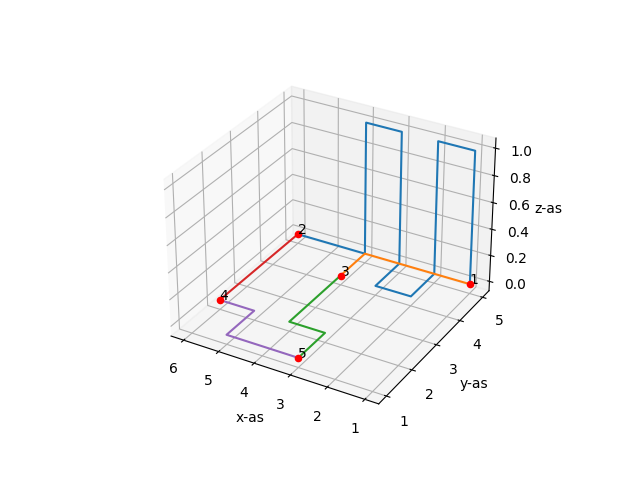
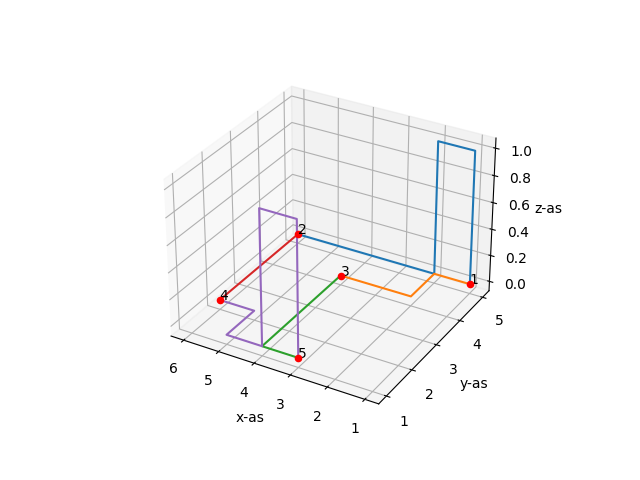
Included the possibility to retrieve crossing at specified direction without going there with the net

diff --git a/code/classes/grid.py b/code/classes/grid.py
@@ -166,62 +166,20 @@ class Grid():
         """
         Takes a letter to represent the direction as variable
         Adds the new location to the net, add blockades to involved crossings
-        Returns false if invalid direction is passed, else true
+        Returns false if invalid direction is passed or crossing is a gate not in the current_net, else true
         """
 
-        if self.current_crossing.add_blockade(direction):
+        # first check if this direction is still an option from the current crossing
+        if direction in self.current_crossing.directions:
+            new_crossing = self.crossing_at_direction(direction)
 
-            # retrieve new crossing object at right location
-            current_coordinates = self.current_crossing.location
+            # block the directions from both crossings
+            self.current_crossing.add_blockade(direction)
+            already_intersection = new_crossing.intersection
+            opposite = self.get_opposite(direction)
+            new_crossing.add_blockade(opposite[0])
 
-            # if direction if north, y coordinate goes down by one (may seem weird, has to do with indexing)
-            if direction == 'N':
-                new_y_coordinate = current_coordinates[1] - 1
-
-                new_crossing = self.grid[current_coordinates[2]][new_y_coordinate][current_coordinates[0]]
-                already_intersection = new_crossing.intersection
-                new_crossing.add_blockade('S')
-
-            # if direction if north, y coordinate goes up by one (may seem weird, has to do with indexing)
-            elif direction == 'S':
-                new_y_coordinate = current_coordinates[1] + 1
-
-                new_crossing = self.grid[current_coordinates[2]][new_y_coordinate][current_coordinates[0]]
-                already_intersection = new_crossing.intersection
-                new_crossing.add_blockade('N')
-
-            # if direction if east, x coordinate goes up by one
-            elif direction == 'E':
-                new_x_coordinate = current_coordinates[0] + 1
-
-                new_crossing = self.grid[current_coordinates[2]][current_coordinates[1]][new_x_coordinate]
-                already_intersection = new_crossing.intersection
-                new_crossing.add_blockade('W')
-                
-            # if direction if west, x coordinate goes down by one
-            elif direction == 'W':
-                new_x_coordinate = current_coordinates[0] - 1
-
-                new_crossing = self.grid[current_coordinates[2]][current_coordinates[1]][new_x_coordinate]
-                already_intersection = new_crossing.intersection
-                new_crossing.add_blockade('E')
-                
-            # if direction is up, z coordinate goes up by one
-            elif direction == 'U':
-                new_z_coordinate = current_coordinates[2] + 1
-
-                new_crossing = self.grid[new_z_coordinate][current_coordinates[1]][current_coordinates[0]]
-                already_intersection = new_crossing.intersection
-                new_crossing.add_blockade('D')
-                
-            # if direction is down, z coordinate goes down by one
-            elif direction == 'D':
-                new_z_coordinate = current_coordinates[2] - 1
-
-                new_crossing = self.grid[new_z_coordinate][current_coordinates[1]][current_coordinates[0]]
-                already_intersection = new_crossing.intersection
-                new_crossing.add_blockade('U')
-
+            # add new crossing object to the net
             self.current_net.add_crossing(new_crossing)
             self.current_crossing = new_crossing
 
@@ -273,7 +231,7 @@ class Grid():
         """
 
         # retrieve relevant crossing objects
-        crossings = net.get_latest_crossings()
+        crossings = net.get_latest_two_crossings()
         last_crossing, second_last_crossing = crossings[0], crossings[1]
 
         # retrieves the direction between the crossing objects
@@ -362,6 +320,71 @@ class Grid():
                 directions.append("D")
 
         return directions
+    
+    def crossing_at_direction(self, direction, crossing = ""):
+        """
+        Takes as input a direction and optionally a crossing object, default is the current_crossing in the grid
+        Returns the crossing object a certain direction away from the crossing object, no matter if there is a blockade
+        Returns None if an invalid direction was passed
+        """
+
+        if crossing == "":
+            crossing = self.current_crossing
+
+        if direction in ['N', 'S', 'E', 'W', 'U', 'D']:
+
+            current_coordinates = crossing.location
+
+            # if direction if north, y coordinate goes down by one (may seem weird, has to do with indexing)
+            if direction == 'N':
+                new_y_coordinate = current_coordinates[1] - 1
+
+                new_crossing = self.grid[current_coordinates[2]][new_y_coordinate][current_coordinates[0]]
+
+            # if direction if south, y coordinate goes up by one (may seem weird, has to do with indexing)
+            elif direction == 'S':
+                new_y_coordinate = current_coordinates[1] + 1
+
+                new_crossing = self.grid[current_coordinates[2]][new_y_coordinate][current_coordinates[0]]
+
+            # if direction if east, x coordinate goes up by one
+            elif direction == 'E':
+                new_x_coordinate = current_coordinates[0] + 1
+
+                new_crossing = self.grid[current_coordinates[2]][current_coordinates[1]][new_x_coordinate]
+
+            # if direction if west, x coordinate goes down by one
+            elif direction == 'W':
+                new_x_coordinate = current_coordinates[0] - 1
+
+                new_crossing = self.grid[current_coordinates[2]][current_coordinates[1]][new_x_coordinate]
+
+            # if direction is up, z coordinate goes up by one
+            elif direction == 'U':
+                new_z_coordinate = current_coordinates[2] + 1
+
+                new_crossing = self.grid[new_z_coordinate][current_coordinates[1]][current_coordinates[0]]
+
+            # if direction is down, z coordinate goes down by one
+            elif direction == 'D':
+                new_z_coordinate = current_coordinates[2] - 1
+
+                new_crossing = self.grid[new_z_coordinate][current_coordinates[1]][current_coordinates[0]]
+
+            return new_crossing
+        return None
+
+    def get_opposite(self, direction):
+        """
+        For each possible direction, returns the opposite
+        """
+
+        if direction in ['S', 'N']:
+            return [i for i in ['S', 'N'] if i != direction]
+        elif direction in ['E', 'W']:
+            return [i for i in ['E', 'W'] if i != direction]
+        elif direction in ['U', 'D']:
+            return [i for i in ['U', 'D'] if i != direction]
 
     def get_output(self, total_costs):
         """

diff --git a/code/algorithms/steered_random.py b/code/algorithms/steered_random.py
@@ -52,7 +52,6 @@ class steered_random_routes:
                 # run until net is finished
                 while not net.finished:
                     directions_to_end = self.grid.get_directions_to_end()
-
                     possible_directions = self.grid.get_directions()
 
                     # if net is stuck, delete net and break

diff --git a/main.py b/main.py
@@ -5,7 +5,7 @@ from code.algorithms import random, steered_random
 if __name__ == "__main__":
     
     chip_number = 0
-    netlist_number = 2
+    netlist_number = 1
 
     printfile = f"./data/chip_{chip_number}/print_{chip_number}.csv"
     netlistfile = f"./data/chip_{chip_number}/netlist_{netlist_number}.csv"

diff --git a/code/classes/net.py b/code/classes/net.py
@@ -34,7 +34,7 @@ class Net:
 
         return self.routelist[-1]
 
-    def get_latest_crossings(self):
+    def get_latest_two_crossings(self):
         """
         Returns the last two crossing objects in the routelist as a list, order: last, second-to-last
         """
